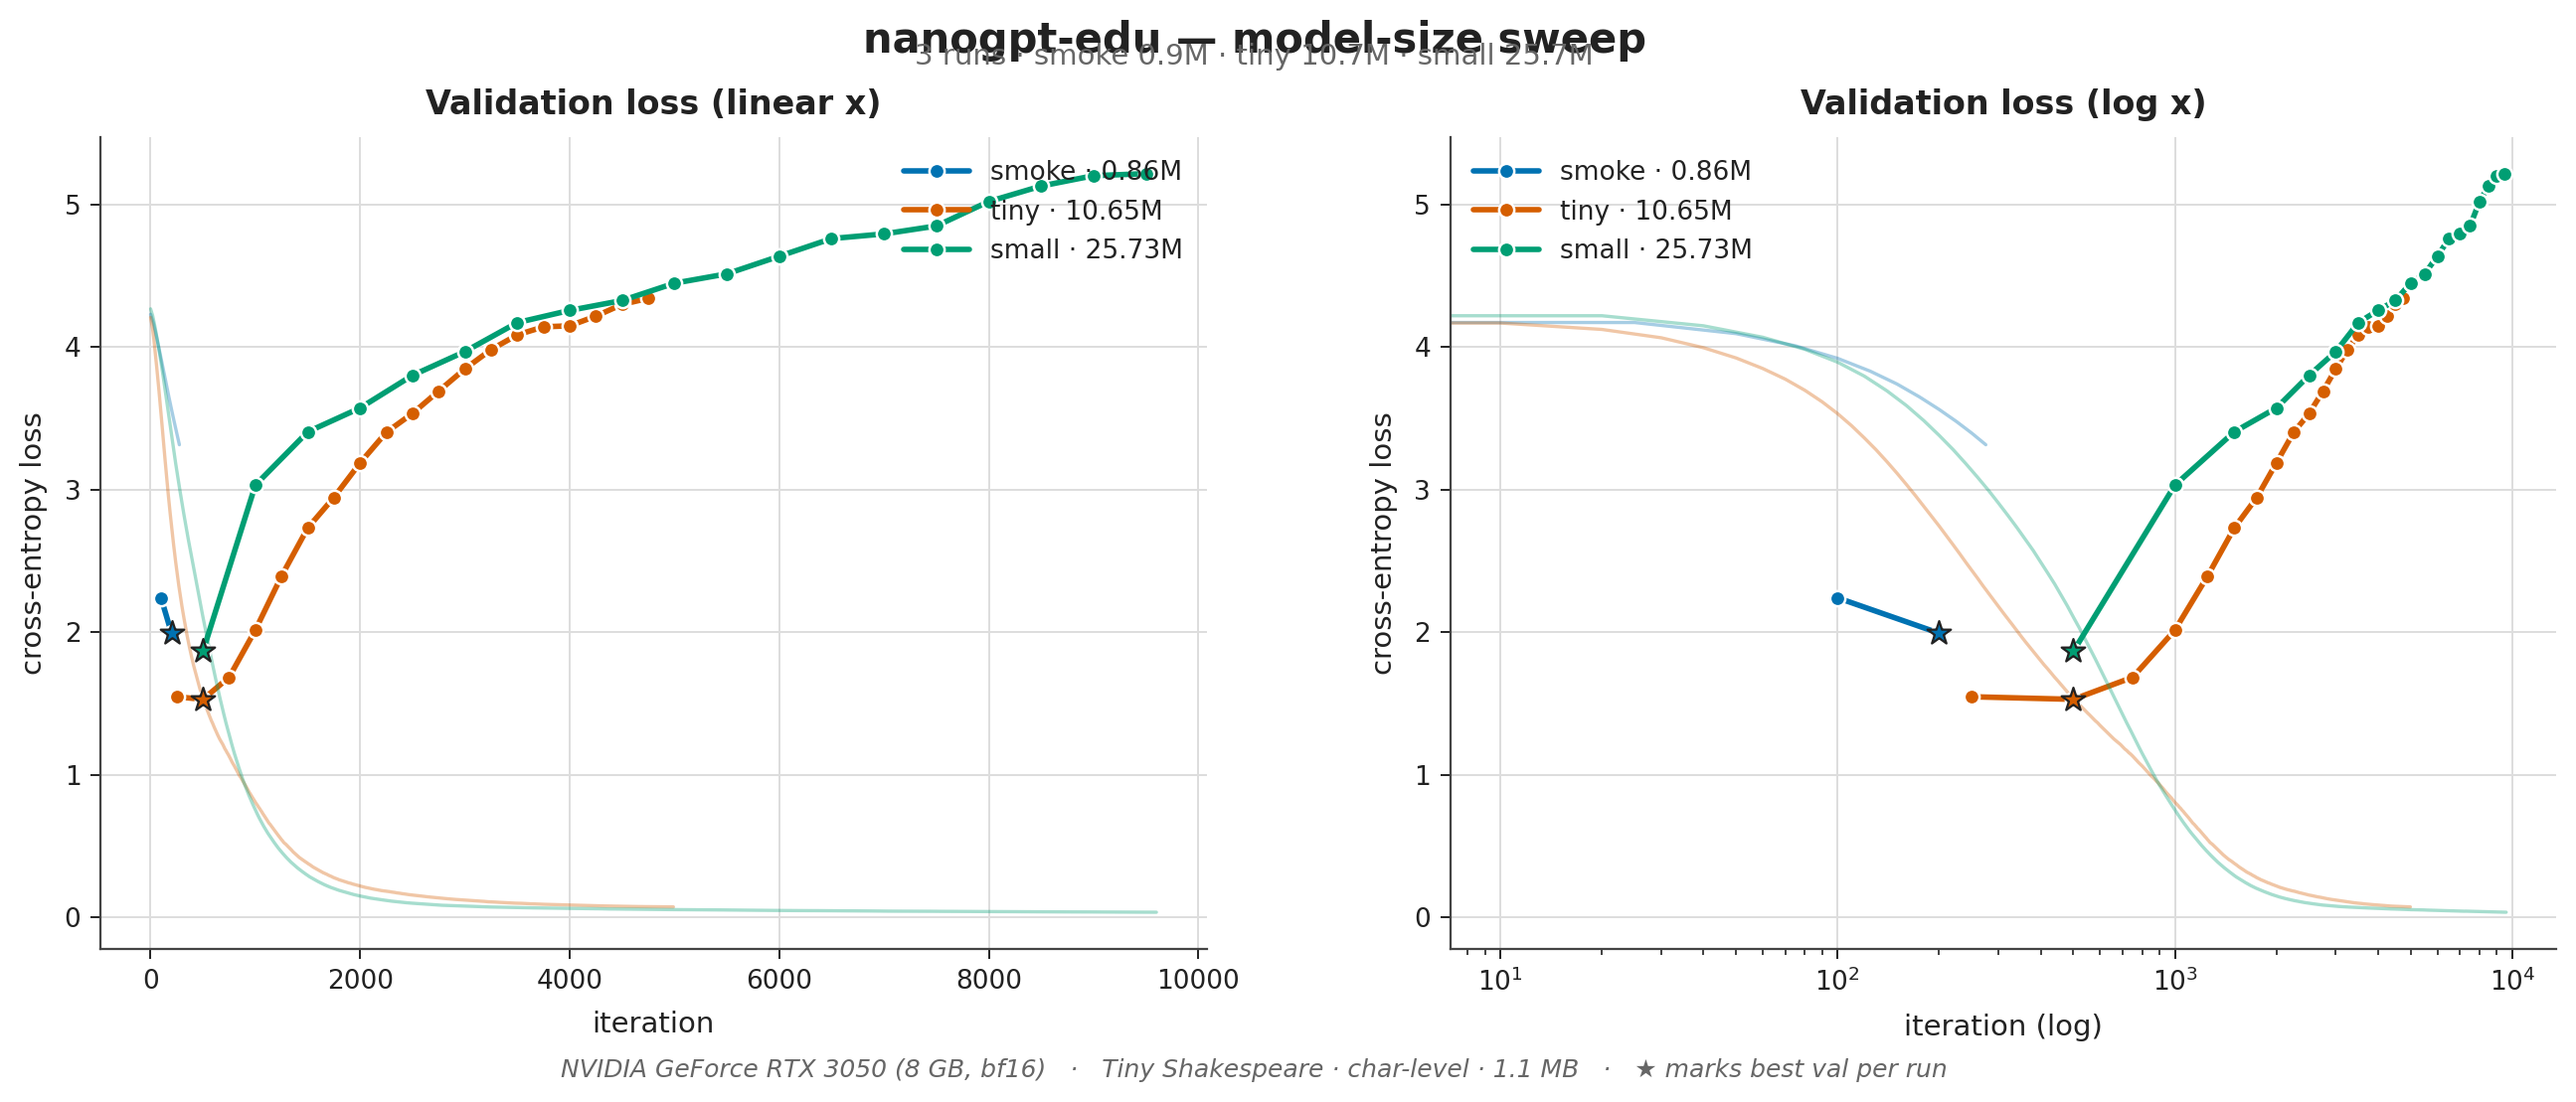
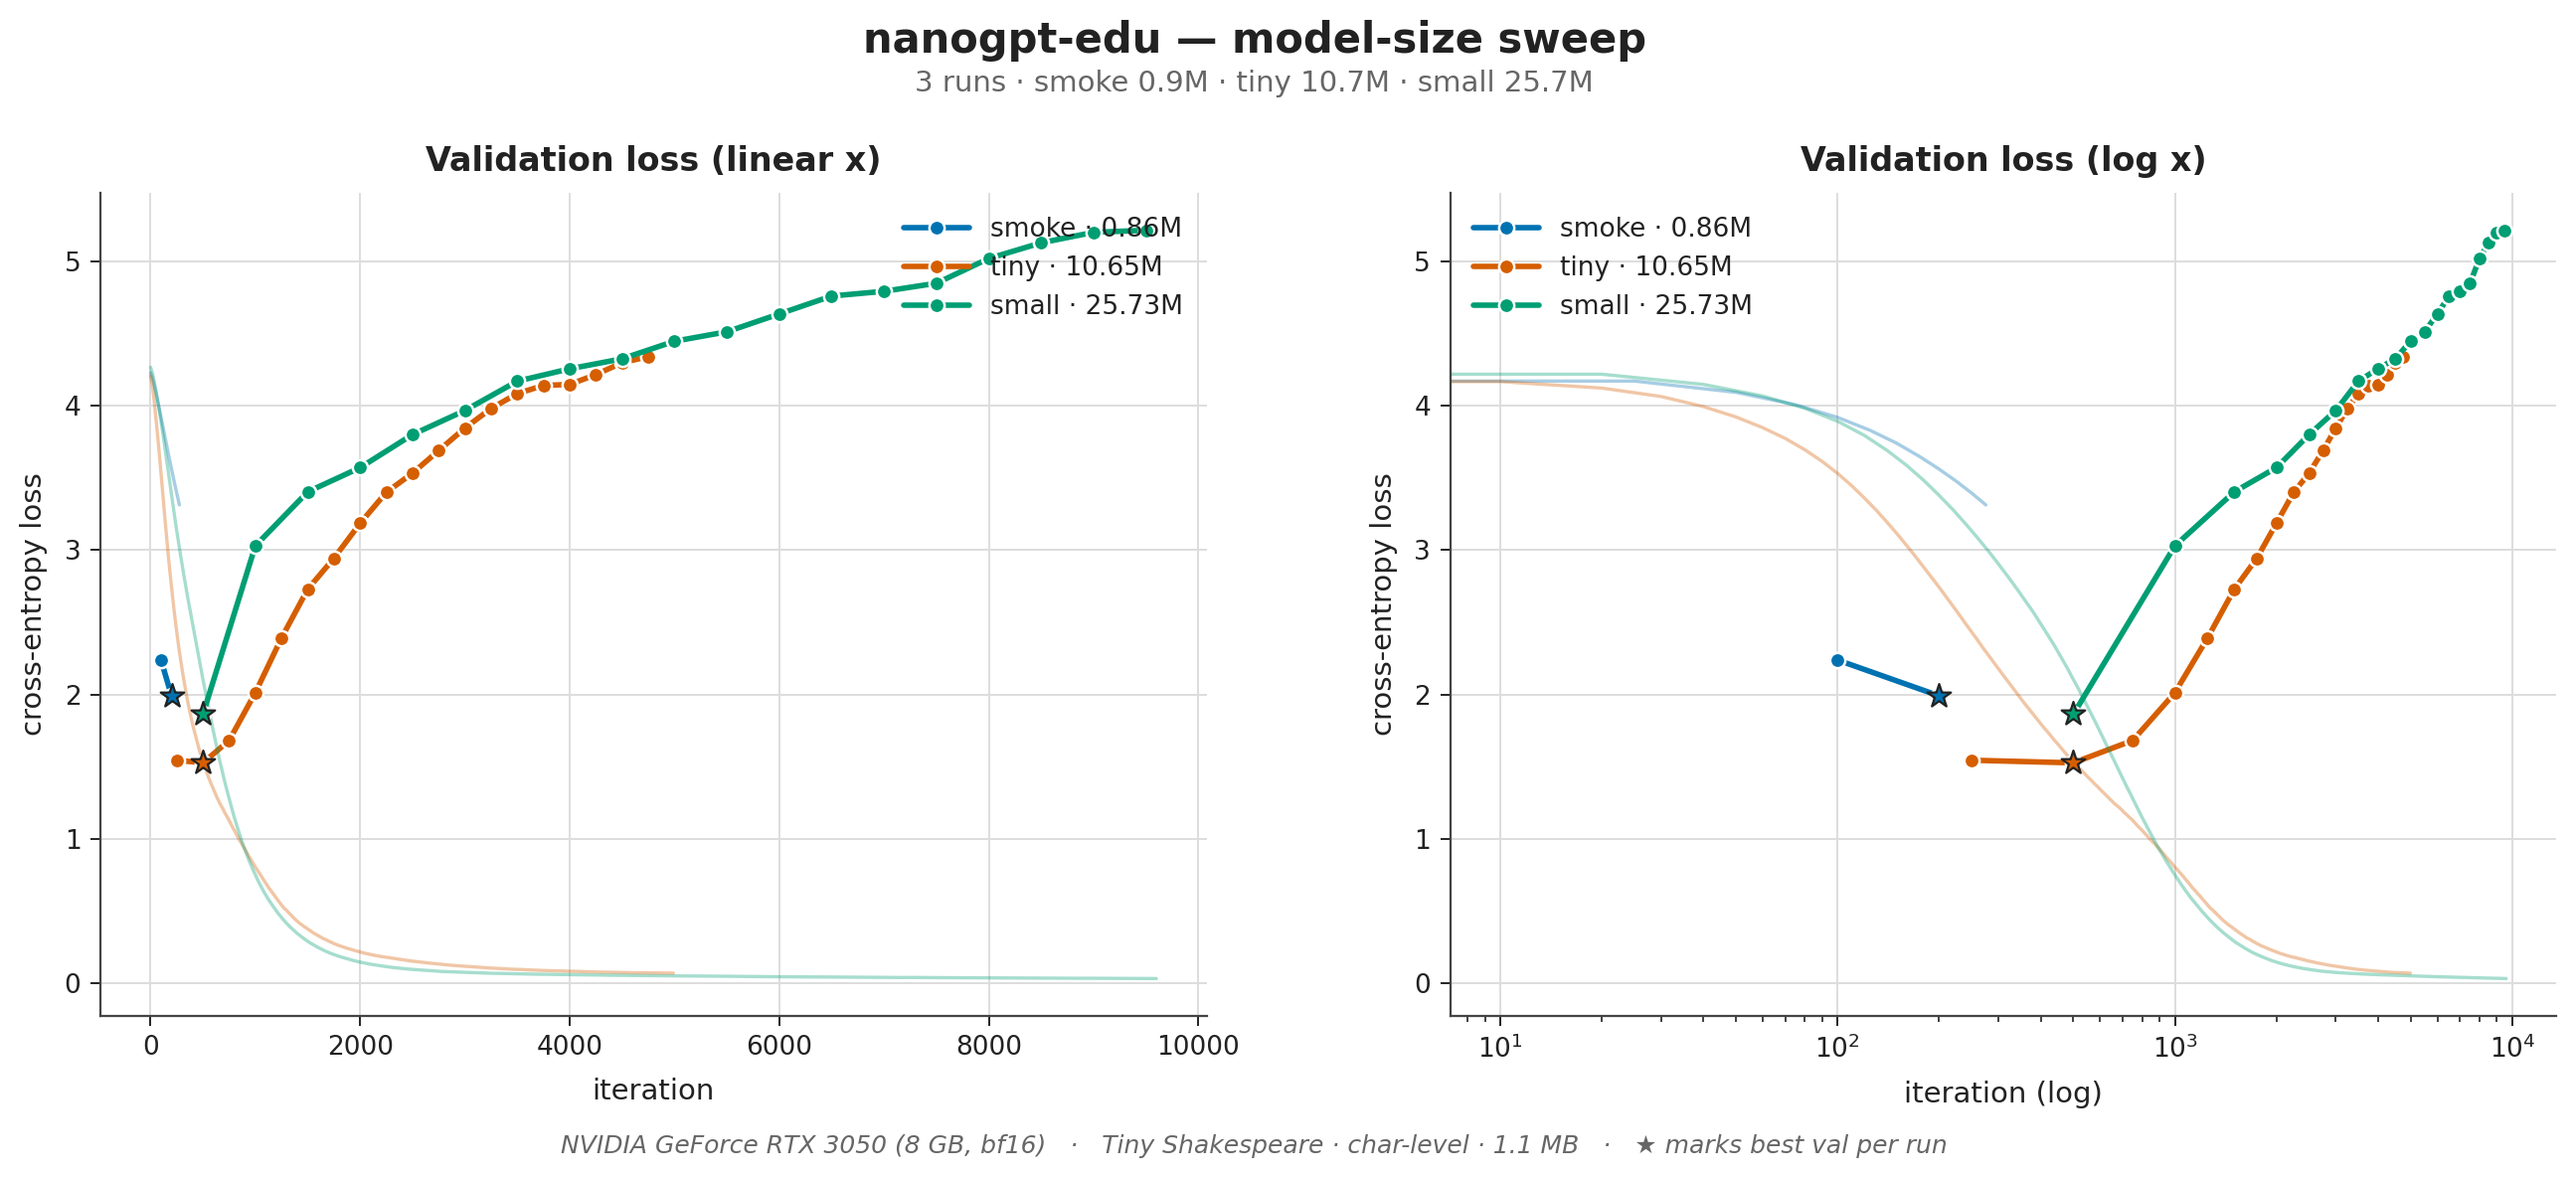
nanogpt-edu: fix overlapping title/subtitle on compare chart
Taller figure (5.6->6.0 in), lower top margin (0.86->0.82), and
nudged subtitle y from 0.925 down to 0.905 so 'model-size sweep'
and the 'N runs · ...' subtitle have clear vertical separation.

diff --git a/nanogpt-edu/tools/plot_nanogpt.py b/nanogpt-edu/tools/plot_nanogpt.py
@@ -423,9 +423,9 @@ def plot_compare(runs: list[Run], out_path: str,
         print("matplotlib required for --compare", file=sys.stderr)
         return
 
-    fig = plt.figure(figsize=(13.5, 5.6))
+    fig = plt.figure(figsize=(13.5, 6.0))
     gs = fig.add_gridspec(1, 2, wspace=0.22,
-                          left=0.07, right=0.985, top=0.86, bottom=0.13)
+                          left=0.07, right=0.985, top=0.82, bottom=0.13)
     ax_lin = fig.add_subplot(gs[0])
     ax_log = fig.add_subplot(gs[1])
 
@@ -466,7 +466,7 @@ def plot_compare(runs: list[Run], out_path: str,
                  fontweight="bold", y=0.965)
     sub = (f"{len(runs)} runs · "
            + " · ".join(f"{r.name} {r.params_m:.1f}M" for r in runs))
-    fig.text(0.5, 0.925, sub, ha="center", fontsize=10.5, color=TEXT_MUTED)
+    fig.text(0.5, 0.905, sub, ha="center", fontsize=10.5, color=TEXT_MUTED)
 
     bits = [b for b in [hardware, dataset, "★ marks best val per run"] if b]
     if bits:
